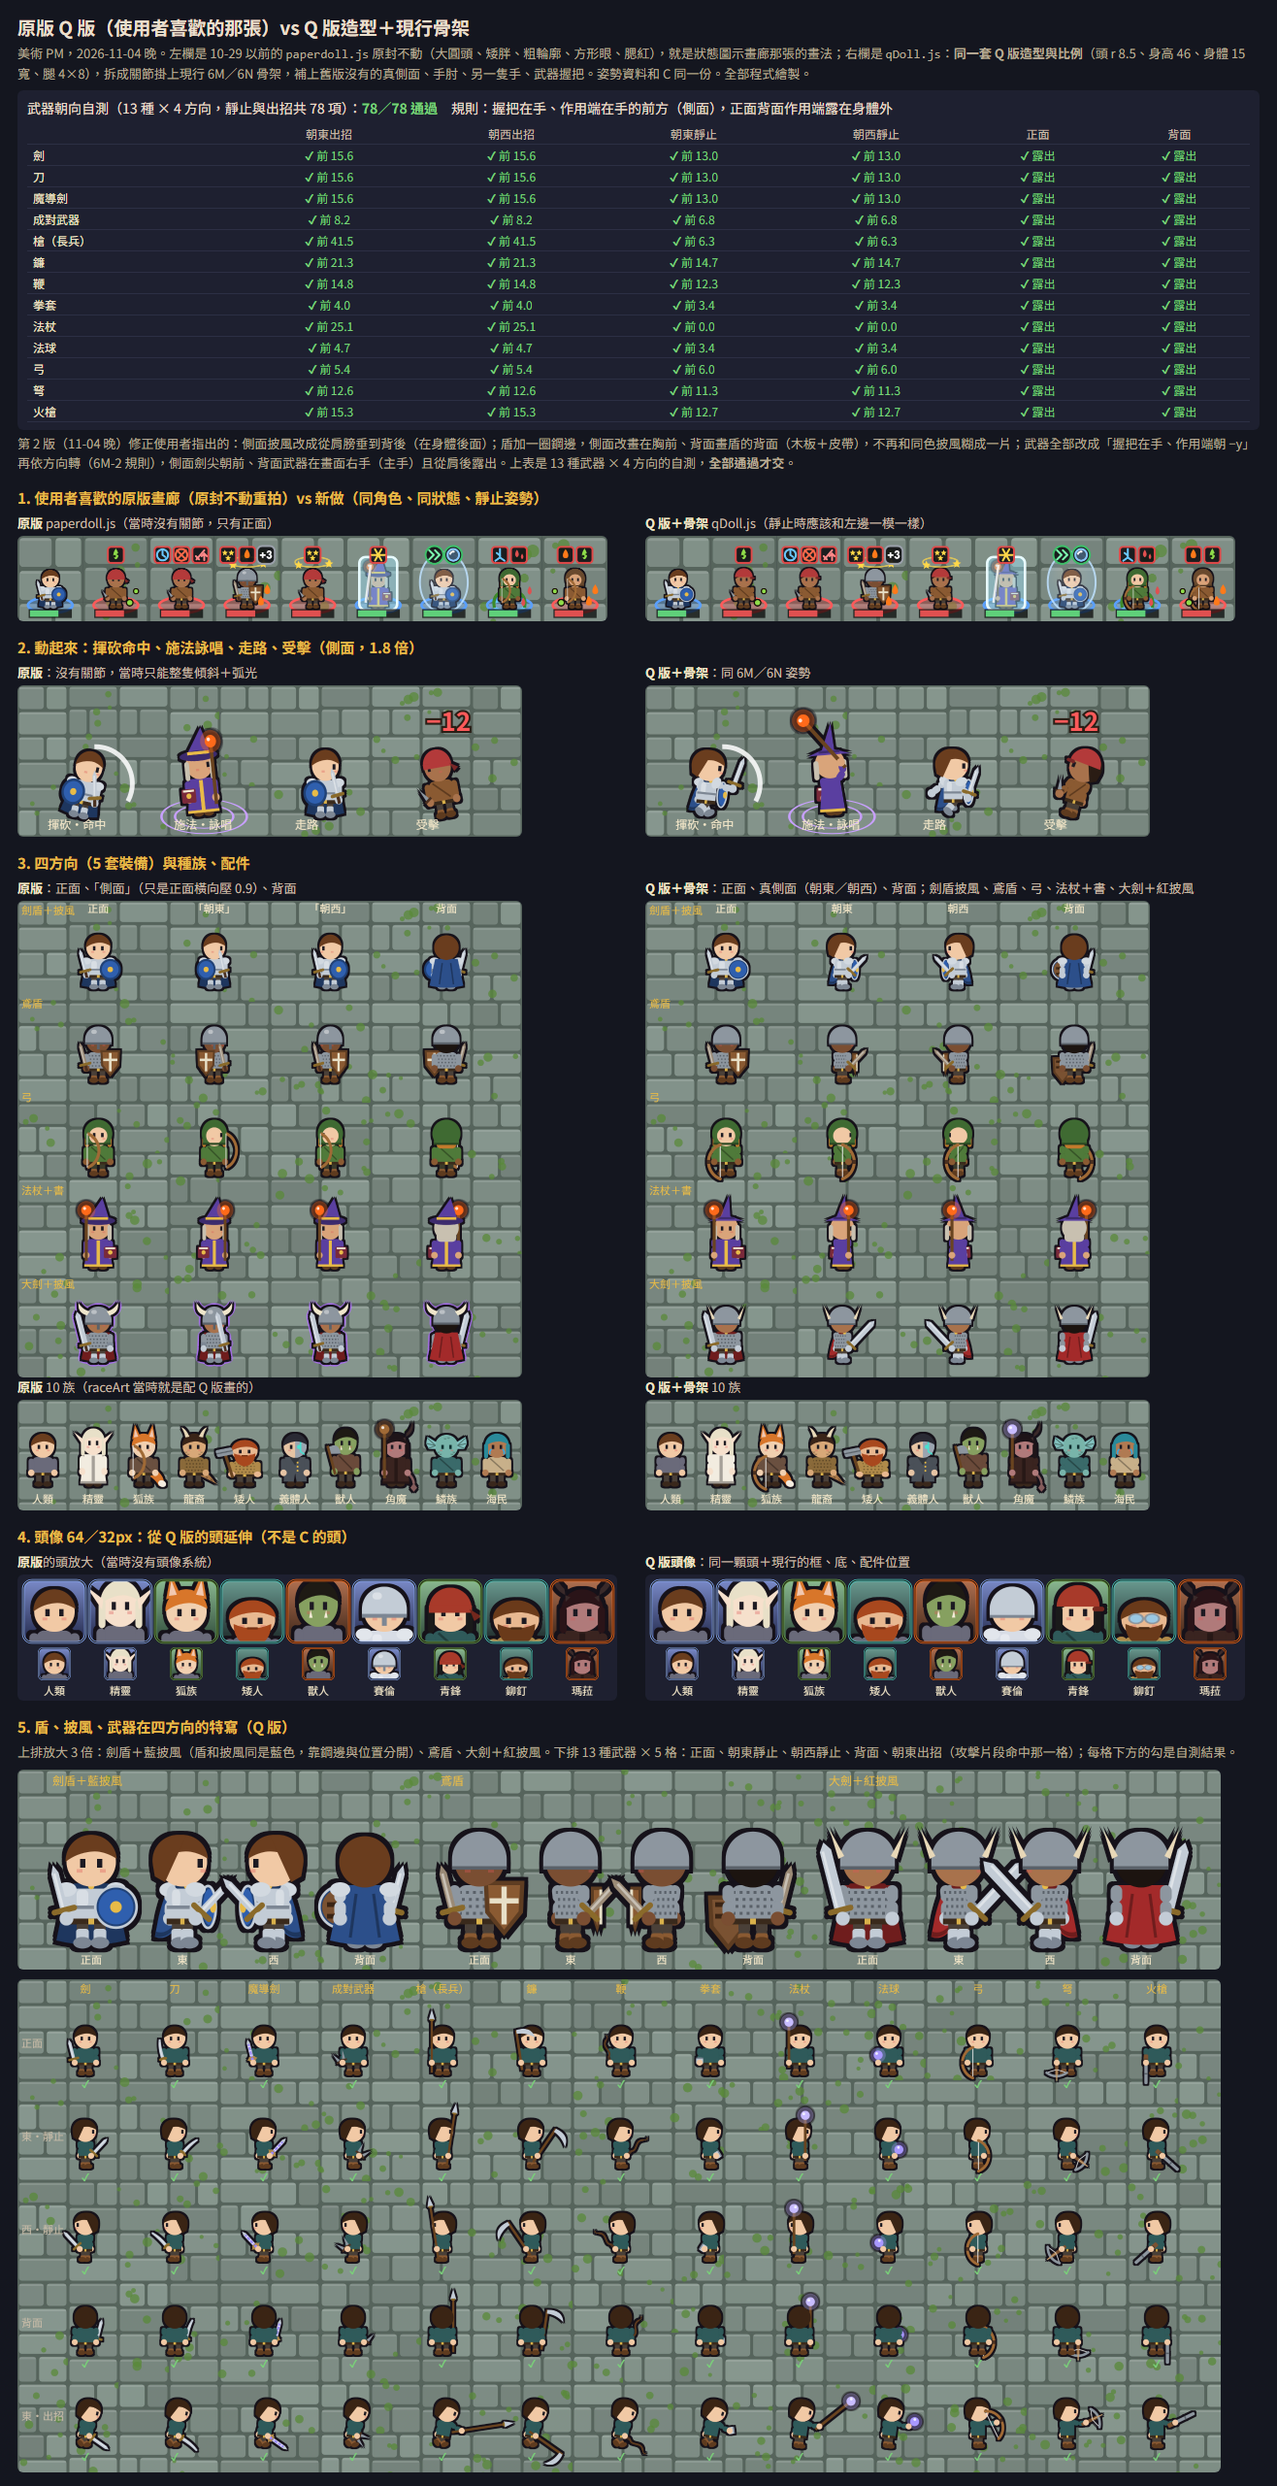
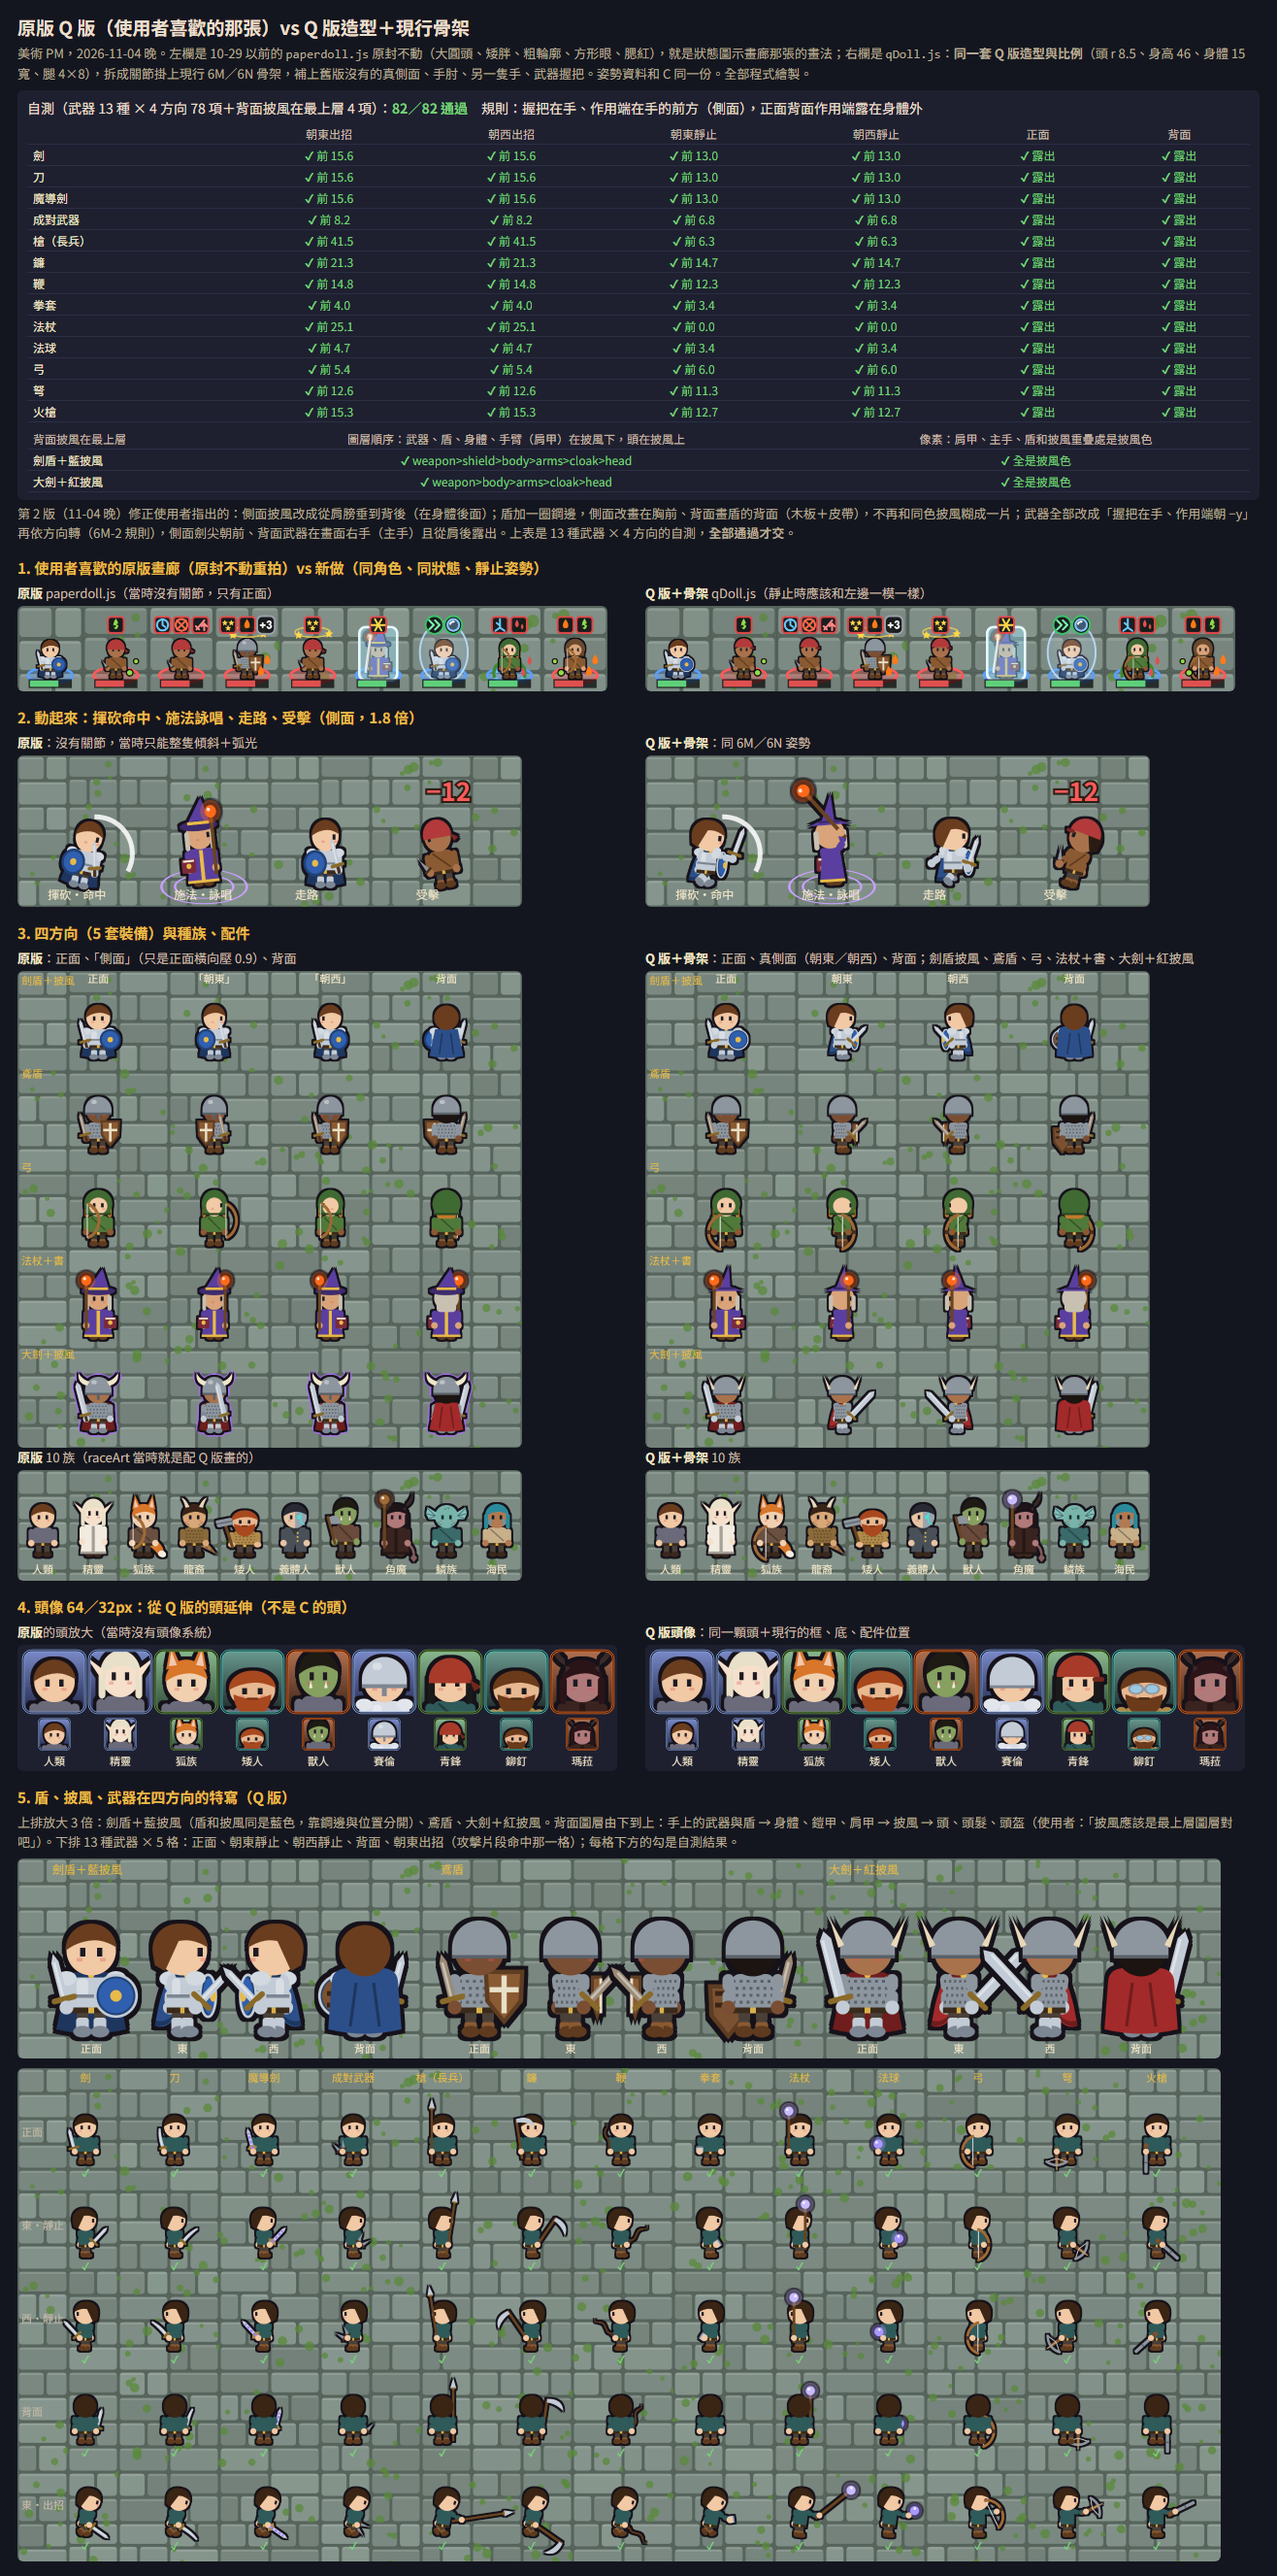
docs(art): Q-doll back view puts cloak above armor, shield and weapon; cloak-on-top self-test

diff --git a/docs/art/sample/qDoll.js b/docs/art/sample/qDoll.js
@@ -248,7 +248,8 @@ window.QDoll = (() => {
   }
   function cloakBack(ctx, it) {
     const [c, d] = colors(it);
-    fill(ctx, c, () => { ctx.moveTo(-8, -21); ctx.lineTo(8, -21); ctx.lineTo(12, -2); ctx.quadraticCurveTo(0, 1, -12, -2); ctx.closePath(); });
+    // 背面披風從肩膀披下來：上緣比舊版（±8, −21）高寬，圓肩蓋住肩甲（肩甲在 x ±8.5、y −22～−17）
+    fill(ctx, c, () => { ctx.moveTo(-6.5, -23); ctx.lineTo(6.5, -23); ctx.quadraticCurveTo(11.2, -22.6, 11.4, -18); ctx.lineTo(12.6, -2); ctx.quadraticCurveTo(0, 1, -12.6, -2); ctx.lineTo(-11.4, -18); ctx.quadraticCurveTo(-11.2, -22.6, -6.5, -23); ctx.closePath(); });
     ctx.strokeStyle = d; ctx.lineWidth = 1; ctx.beginPath(); ctx.moveTo(-3, -18); ctx.lineTo(-5, -3); ctx.moveTo(3, -18); ctx.lineTo(5, -3); ctx.stroke();
   }
   // ---------- 盾：正面舊版原樣＋一圈鋼邊（和同色披風分得開）／側面（新：近乎側看的窄盾，在胸前）／背面（新：看到盾的背面＝木板＋皮帶） ----------
@@ -292,35 +293,37 @@ window.QDoll = (() => {
   // 畫的順序（由後到前）
   //   正面：披風（暗）→ 尾巴 → 腿 → 身體 → 披風扣 → 副手臂＋副手 → 頭 → 主手臂＋武器（舊版順序）
   //   側面：披風（背後那片）→ 尾巴 → 遠側手臂（副手不是盾時拿在這隻手）→ 腿 → 身體 → 披風扣 → 盾（胸前）→ 頭 → 近側手臂＋武器
-  //   背面：主手武器（在身體前方＝畫面後；主手在畫面右）→ 盾背面（畫面左）→ 腿 → 身體 → 披風（主色）→ 尾巴 → 兩隻手臂 → 頭
+  //   背面（11-04 晚，使用者：「披風應該是最上層圖層對吧」）：主手武器（主手在畫面右）→ 盾背面（畫面左）→ 腿 → 身體 → 兩隻手臂（含肩甲）→ 披風（主色，蓋住肩甲、手、盾和武器重疊的部分）→ 尾巴（從披風下襬伸出）→ 頭、頭髮、頭盔
+  //   側面的披風是背後那一片，在最底層；遠側手臂在它前面（手臂在身體側面，披風在背後）
   function draw(ctx, unit, view) {
     const { look, gear } = unit, F = view === "front", B = view === "back", S = view === "side";
     const side = S ? 1 : 0;
     const R = window.RaceArt;
+    const mark = (n) => { if (POSE && POSE.layers) POSE.layers.push(n); }; // 自測用：記下圖層順序
     ctx.save();
     if (R) R.build(ctx, look);
     ctx.translate(0, pz("bob"));
     if (S) rotAt(ctx, 0, -9, pz("lean"));
     // 影子已由呼叫端畫
     if (gear.cloak && F) cloakFront(ctx, gear.cloak);
-    if (gear.cloak && S) cloakSide(ctx, gear.cloak);
+    if (gear.cloak && S) { cloakSide(ctx, gear.cloak); mark("cloak"); }
     if (R && !B) R.tail(ctx, look, F ? "front" : "side", side);
     if (B) {
       ctx.save(); ctx.translate(0, pz("armR"));
       arm(ctx, unit, 8.5, 0, 0, 0, (hand) => mainWeapon(ctx, gear.main_hand, hand, -holdOf(gear.main_hand, "front"), "back"), true);
-      ctx.restore();
-      if (isShield(gear.off_hand)) shieldBack(ctx, gear.off_hand, -8.5); else if (gear.off_hand) PD.drawWeapon(ctx, gear.off_hand, -8.5, false);
+      ctx.restore(); mark("weapon");
+      if (isShield(gear.off_hand)) { shieldBack(ctx, gear.off_hand, -8.5); mark("shield"); } else if (gear.off_hand) PD.drawWeapon(ctx, gear.off_hand, -8.5, false);
     }
     if (S) arm(ctx, unit, -4.5, pz("armL") * 0.6 - 0.1, 0.15, side, gear.off_hand && !isShield(gear.off_hand) ? (hand) => PD.drawWeapon(ctx, gear.off_hand, hand[0], true) : null);
     leg(ctx, look, gear.feet, -1, pz("hipF"), pz("kneeF"), pz("liftL"), side);
     leg(ctx, look, gear.feet, 1, pz("hipN"), pz("kneeN"), pz("liftR"), side);
-    body(ctx, gear.body, look, side);
+    body(ctx, gear.body, look, side); mark("body");
     if (S) { cloakClasp(ctx, gear.cloak, true); if (isShield(gear.off_hand)) shieldSide(ctx, gear.off_hand); }
     if (B) {
-      if (gear.cloak) cloakBack(ctx, gear.cloak);
-      if (R) R.tail(ctx, look, "back", 0);
       ctx.save(); ctx.translate(0, pz("armR")); arm(ctx, unit, 8.5, 0, 0, 0); ctx.restore();
-      ctx.save(); ctx.translate(0, pz("armL")); arm(ctx, unit, -8.5, 0, 0, 0); ctx.restore();
+      ctx.save(); ctx.translate(0, pz("armL")); arm(ctx, unit, -8.5, 0, 0, 0); ctx.restore(); mark("arms");
+      if (gear.cloak) { cloakBack(ctx, gear.cloak); mark("cloak"); }
+      if (R) R.tail(ctx, look, "back", 0);
     }
     if (F) {
       if (gear.cloak) cloakClasp(ctx, gear.cloak, false);
@@ -328,6 +331,7 @@ window.QDoll = (() => {
       if (isShield(gear.off_hand)) shieldFront(ctx, gear.off_hand, 8.5); else if (gear.off_hand) PD.drawWeapon(ctx, gear.off_hand, 8.5, true);
       ctx.restore();
     }
+    mark("head");
     ctx.save(); rotAt(ctx, 0, -29, S ? pz("lean") * 0.3 : 0);
     head(ctx, look, F ? "front" : B ? "back" : "front", side, gear);
     if (R) R.ears(ctx, look, F ? "front" : "side", side, gear.head, "under");
@@ -375,7 +379,30 @@ window.QDoll = (() => {
       r.pass = Object.values(r.ok).every(Boolean);
       rows.push(r);
     }
+    rows.cloak = cloakTest();
     return rows;
+  }
+  // 背面披風在最上層（頭除外）：圖層順序＋實際像素兩種檢查
+  //   順序：武器、盾、身體、手臂（含肩甲）都在披風之前畫，頭在披風之後。
+  //   像素：肩甲、盾、手和披風重疊的點，畫出來的顏色要是披風的顏色。
+  function cloakTest() {
+    const TPL = PD.TEMPLATES, out = [];
+    for (const [zh, tpl] of [["劍盾＋藍披風", "hero_fighter"], ["大劍＋紅披風", "bandit_boss"]]) {
+      const u = TPL[tpl], K = 4, C = document.createElement("canvas"); C.width = C.height = 256;
+      const ctx = C.getContext("2d", { willReadFrequently: true });
+      ctx.setTransform(K, 0, 0, K, 128, 220);
+      POSE = { layers: [] }; draw(ctx, u, "back"); const L = POSE.layers; POSE = null;
+      const at = (n) => L.indexOf(n), ci = at("cloak");
+      const order = ci > 0 && ["weapon", "body", "arms"].every((n) => at(n) >= 0 && at(n) < ci) && (at("shield") < ci) && at("head") > ci;
+      const want = colors(u.gear.cloak)[0].toLowerCase();
+      const px = ([x, y]) => { const d = ctx.getImageData(128 + x * K, 220 + y * K, 1, 1).data; return "#" + [d[0], d[1], d[2]].map((v) => v.toString(16).padStart(2, "0")).join(""); };
+      // 肩甲（左右）、手（主手）、盾和披風重疊處（只有帶盾的才測）
+      const pts = [["左肩甲", [-6, -19.5]], ["右肩甲", [6, -19.5]], ["主手", [8.2, -9.5]]];
+      if (isShield(u.gear.off_hand)) pts.push(["盾", [-7, -12]]);
+      const bad = pts.filter(([, p]) => px(p) !== want).map(([n, p]) => `${n}${px(p)}`);
+      out.push({ zh, order, pixels: bad.length === 0, bad, layers: L.join(">") });
+    }
+    return out;
   }
   function PD_headgear(ctx, it, view) { if (!it) return; PD.drawHeadgearPublic ? PD.drawHeadgearPublic(ctx, it, view) : PD_fallbackHeadgear(ctx, it, view); }
   // paperdoll.js 沒有匯出 drawHeadgear；用它的 drawFigure 畫一次只留頭飾太貴，這裡照抄常用的幾種

diff --git a/docs/art/sample/style-compare-3.html b/docs/art/sample/style-compare-3.html
@@ -33,7 +33,7 @@
 <div class="pair"><div class="col"><h3><b>原版</b>的頭放大（當時沒有頭像系統）</h3><canvas id="p1"></canvas></div><div class="col"><h3><b>Q 版頭像</b>：同一顆頭＋現行的框、底、配件位置</h3><canvas id="p2"></canvas></div></div>
 
 <h2>5. 盾、披風、武器在四方向的特寫（Q 版）</h2>
-<p class="note">上排放大 3 倍：劍盾＋藍披風（盾和披風同是藍色，靠鋼邊與位置分開）、鳶盾、大劍＋紅披風。下排 13 種武器 × 5 格：正面、朝東靜止、朝西靜止、背面、朝東出招（攻擊片段命中那一格）；每格下方的勾是自測結果。</p>
+<p class="note">上排放大 3 倍：劍盾＋藍披風（盾和披風同是藍色，靠鋼邊與位置分開）、鳶盾、大劍＋紅披風。背面圖層由下到上：手上的武器與盾 → 身體、鎧甲、肩甲 → 披風 → 頭、頭髮、頭盔（使用者：「披風應該是最上層圖層對吧」）。下排 13 種武器 × 5 格：正面、朝東靜止、朝西靜止、背面、朝東出招（攻擊片段命中那一格）；每格下方的勾是自測結果。</p>
 <canvas id="c1"></canvas>
 <canvas id="c2" style="margin-top:10px"></canvas>
 
@@ -89,10 +89,10 @@ function portrait(x,X,Y,size,[zh,reg,look,gear],useQ){const [frame,bgD,bgL]=REG[
 function portraits(x,useQ){HEADS.forEach((h,i)=>{const X=6+i*68,Y=6;portrait(x,X,Y,64,h,useQ);portrait(x,X+16,Y+70,32,h,useQ);x.fillStyle="#f2e6c8";x.font=`11px ${FONT}`;x.textAlign="center";x.fillText(h[0],X+32,Y+118);x.textAlign="left";});}
 portraits(cv("p1",9*68+6,130),false);portraits(cv("p2",9*68+6,130),true);
 // 自測（頁首）
-const ST=Q.selfTest();{const n=ST.reduce((a,r)=>a+Object.values(r.ok).filter(Boolean).length,0),N=ST.length*6,all=n===N;
+const ST=Q.selfTest();{const CL=ST.cloak,n=ST.reduce((a,r)=>a+Object.values(r.ok).filter(Boolean).length,0)+CL.reduce((a,c)=>a+(c.order?1:0)+(c.pixels?1:0),0),N=ST.length*6+CL.length*2,all=n===N;
   const C=[["east","朝東出招"],["west","朝西出招"],["eastRest","朝東靜止"],["westRest","朝西靜止"],["south","正面"],["north","背面"]];
   const cell=(r,k)=>{const ok=r.ok[k],v=r[k];const t=isNaN(v)?"沒畫／切掉":k==="south"||k==="north"?(ok?"露出":"被蓋"):((v>=0?"前 ":"後 ")+Math.abs(v).toFixed(1));return `<td class="${ok?"y":"n"}">${ok?"✔":"✘"} ${t}</td>`;};
-  document.getElementById("st").innerHTML=`<div class="sum">武器朝向自測（13 種 × 4 方向，靜止與出招共 ${N} 項）：<b class="${all?"ok":"ng"}">${n}／${N} 通過${all?"":"，未通過不交"}</b>　規則：握把在手、作用端在手的前方（側面），正面背面作用端露在身體外</div><table><tr><th></th>${C.map(c=>`<th>${c[1]}</th>`).join("")}</tr>${ST.map(r=>`<tr><td class="k">${r.zh}</td>${C.map(c=>cell(r,c[0])).join("")}</tr>`).join("")}</table>`;
+  document.getElementById("st").innerHTML=`<div class="sum">自測（武器 13 種 × 4 方向 ${ST.length*6} 項＋背面披風在最上層 ${CL.length*2} 項）：<b class="${all?"ok":"ng"}">${n}／${N} 通過${all?"":"，未通過不交"}</b>　規則：握把在手、作用端在手的前方（側面），正面背面作用端露在身體外</div><table><tr><th></th>${C.map(c=>`<th>${c[1]}</th>`).join("")}</tr>${ST.map(r=>`<tr><td class="k">${r.zh}</td>${C.map(c=>cell(r,c[0])).join("")}</tr>`).join("")}</table><table style="margin-top:6px"><tr><th style="text-align:left">背面披風在最上層</th><th>圖層順序：武器、盾、身體、手臂（肩甲）在披風下，頭在披風上</th><th>像素：肩甲、主手、盾和披風重疊處是披風色</th></tr>${CL.map(c=>`<tr><td class="k">${c.zh}</td><td class="${c.order?"y":"n"}">${c.order?"✔":"✘"} ${c.layers}</td><td class="${c.pixels?"y":"n"}">${c.pixels?"✔ 全是披風色":"✘ "+c.bad.join("、")}</td></tr>`).join("")}</table>`;
   window.__selftest=`${n}/${N}`;}
 // 5. 特寫
 function closeup(x){const K=3,CW=152;floor(x,24,4);const U=[["劍盾＋藍披風","hero_fighter"],["鳶盾","bandit_shieldbearer"],["大劍＋紅披風","bandit_boss"]],V=[["front",false,"正面"],["side",false,"東"],["side",true,"西"],["back",false,"背面"]];

diff --git a/docs/art/Q版回歸評估.md b/docs/art/Q版回歸評估.md
@@ -32,7 +32,8 @@
   - 盾加一圈鋼邊；側面畫成舉在胸前的窄盾（在身體前緣之外，近側手臂只蓋到後緣）；背面畫盾的背面（木板＋皮帶）。藍盾配藍披風時靠位置與鋼邊分開。
   - 武器不再借用舊版 `drawWeapon` 裡寫死的旋轉：13 種（加大劍、斧、錘、匕首）全部改成「握把在原點、作用端朝 −y」的 Q 版造型表 `QW`，側面角度＝姿勢的 `wpn`（沒有時用武器預設握法），正面照舊版斜度，背面鏡像且武器在畫面右手（主手）。
   - 離屏畫布從 64×72 放大到 128×112（出招時長槍、法杖、鐮的作用端原本會被切掉）。
-  - 頁首自測：13 種武器 × 6 項（朝東／朝西出招、朝東／朝西靜止、正面、背面），78／78 通過；另加第 5 組「盾、披風、武器在四方向的特寫」。
+  - 背面圖層（使用者：「披風應該是最上層圖層對吧」）：由下到上改成「手上的武器與盾 → 身體、鎧甲、肩甲 → 披風 → 頭、頭髮、頭盔」；背面披風肩線加高加寬，從肩膀披下來蓋住肩甲。側面披風是背後那一片，維持最底層，遠側手臂在它前面。
+  - 頁首自測：13 種武器 × 6 項（朝東／朝西出招、朝東／朝西靜止、正面、背面），另加「背面披風在最上層」4 項（圖層順序＋肩甲、主手、盾重疊處的像素是披風色；舊順序會失敗），共 82／82 通過；另加第 5 組「盾、披風、武器在四方向的特寫」。
 
 ## 3. 重估：要做多少
 
